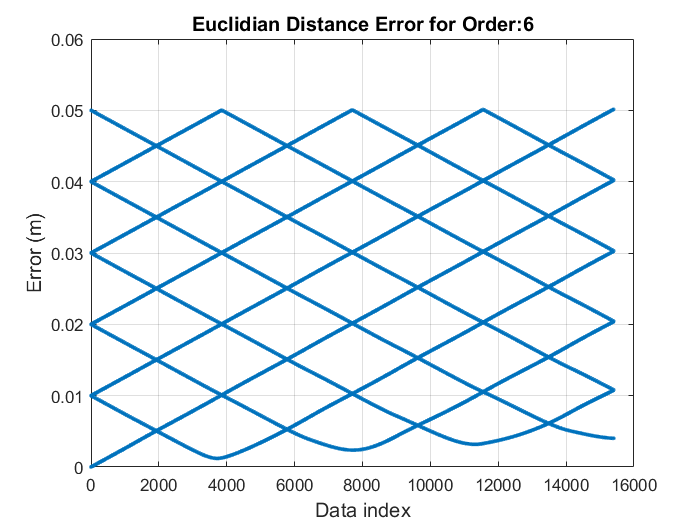
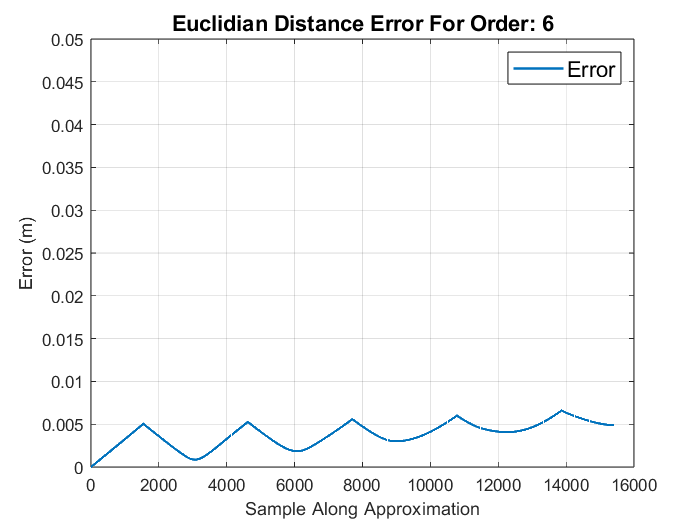
approximation error plot fixed, it was fluctuating now it is correct

diff --git a/MATLAB/plotGenerate/plotClothoidApproxmation.m b/MATLAB/plotGenerate/plotClothoidApproxmation.m
@@ -135,3 +135,17 @@ title("Error for High and Low Order Approximation",'FontSize',13)
 xlabel("Sample Number")
 ylabel("Error (m)")
 ylim([0 0.25])
+
+%% Plot the error between ground truth and approximation
+measurement_xy3 = [segments{1}(282).allX' segments{1}(282).allY'];
+ground_truth_xy_3 = [all_clothoids{1}(283).allX' all_clothoids{1}(283).allY'];
+
+[rms_error, max_error, errors] = ...
+    computeSegmentError(measurement_xy3,ground_truth_xy_3);
+figure;
+plot(errors,'LineWidth',1.5)
+legend("Error",'FontSize',13)
+title("Euclidian Distance Error For Order: 6",'FontSize',13)
+xlabel("Sample Along Approximation")
+ylabel("Error (m)")
+ylim([0 0.05])
